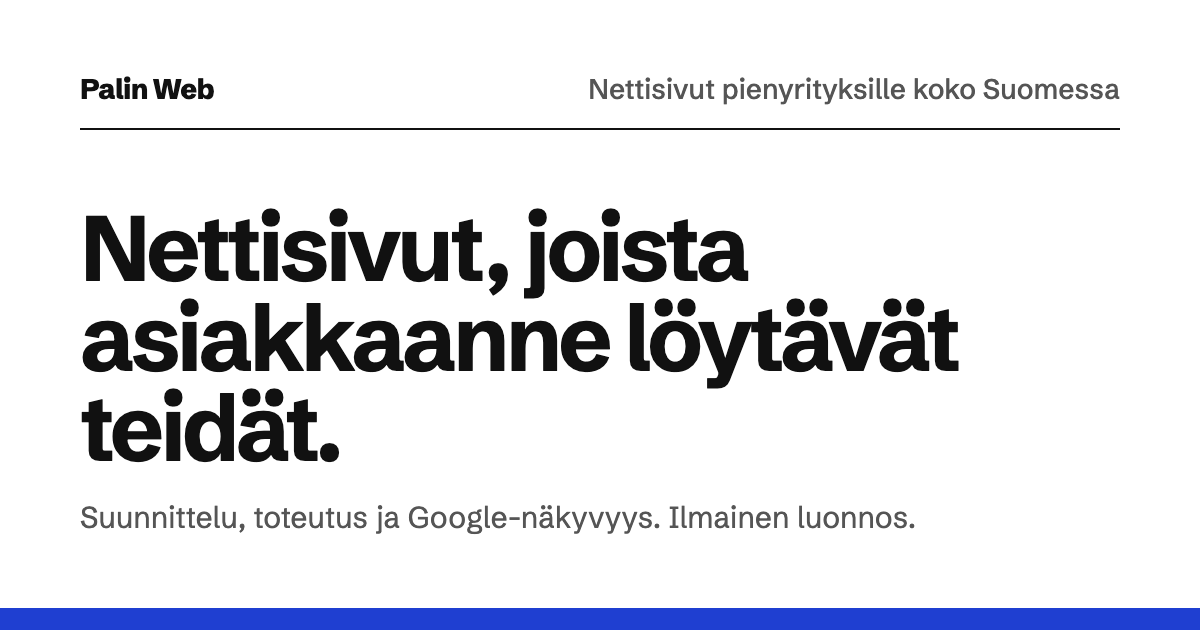
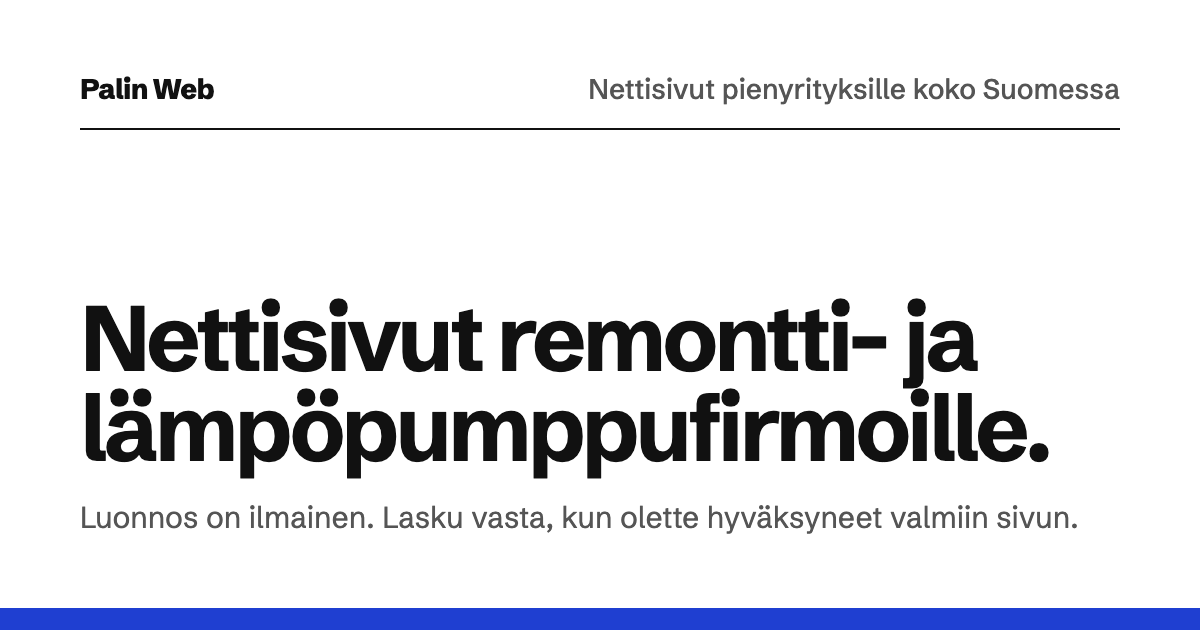
OG-kuva ja og:image:alt uuteen otsikkoon

Changed region(s): [[0.0617, 0.3317, 0.8942, 0.754], [0.0617, 0.7841, 0.8942, 0.8444]]

diff --git a/tyokalut/og-kuva.html b/tyokalut/og-kuva.html
@@ -7,13 +7,13 @@
   body{background:#fff;color:#111;font-family:"SG",sans-serif;display:flex;flex-direction:column;padding:72px 80px;box-sizing:border-box}
   .top{display:flex;justify-content:space-between;font-size:28px;font-weight:800;letter-spacing:-.02em;border-bottom:2px solid #111;padding-bottom:22px}
   .top span{font-weight:500;color:#555;letter-spacing:0}
-  h1{font-size:92px;max-width:960px;line-height:.98;letter-spacing:-.045em;font-weight:700;margin:auto 0 0}
+  h1{font-size:92px;max-width:1040px;line-height:.98;letter-spacing:-.045em;font-weight:700;margin:auto 0 0}
   .sub{font-size:30px;color:#555;margin:26px 0 22px}
   .bar{position:absolute;left:0;right:0;bottom:0;height:22px;background:#1f3fd1}
 </style></head>
 <body>
   <div class="top">Palin Web <span>Nettisivut pienyrityksille koko Suomessa</span></div>
-  <h1>Nettisivut, joista asiakkaanne löytävät teidät.</h1>
-  <p class="sub">Suunnittelu, toteutus ja Google-näkyvyys. Ilmainen luonnos.</p>
+  <h1>Nettisivut remontti- ja lämpöpumppufirmoille.</h1>
+  <p class="sub">Luonnos on ilmainen. Lasku vasta, kun olette hyväksyneet valmiin sivun.</p>
   <div class="bar"></div>
 </body></html>

diff --git a/site/index.html b/site/index.html
@@ -19,7 +19,7 @@
   <meta property="og:image" content="https://palinweb.fi/kuvat/og-kuva.png">
   <meta property="og:image:width" content="1200">
   <meta property="og:image:height" content="630">
-  <meta property="og:image:alt" content="Palin Web: Nettisivut, joista asiakkaanne löytävät teidät.">
+  <meta property="og:image:alt" content="Palin Web: Nettisivut remontti- ja lämpöpumppufirmoille. Luonnos on ilmainen.">
   <meta name="twitter:card" content="summary_large_image">
 
   <script type="application/ld+json">
